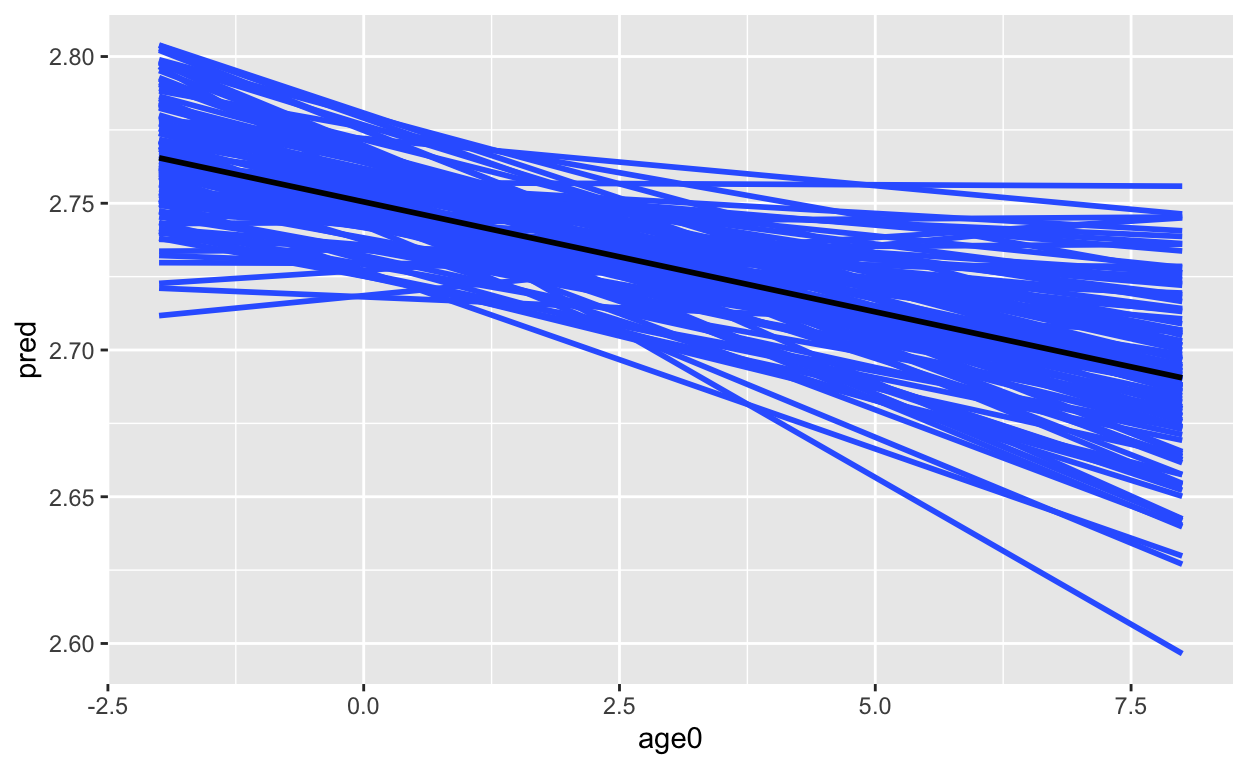
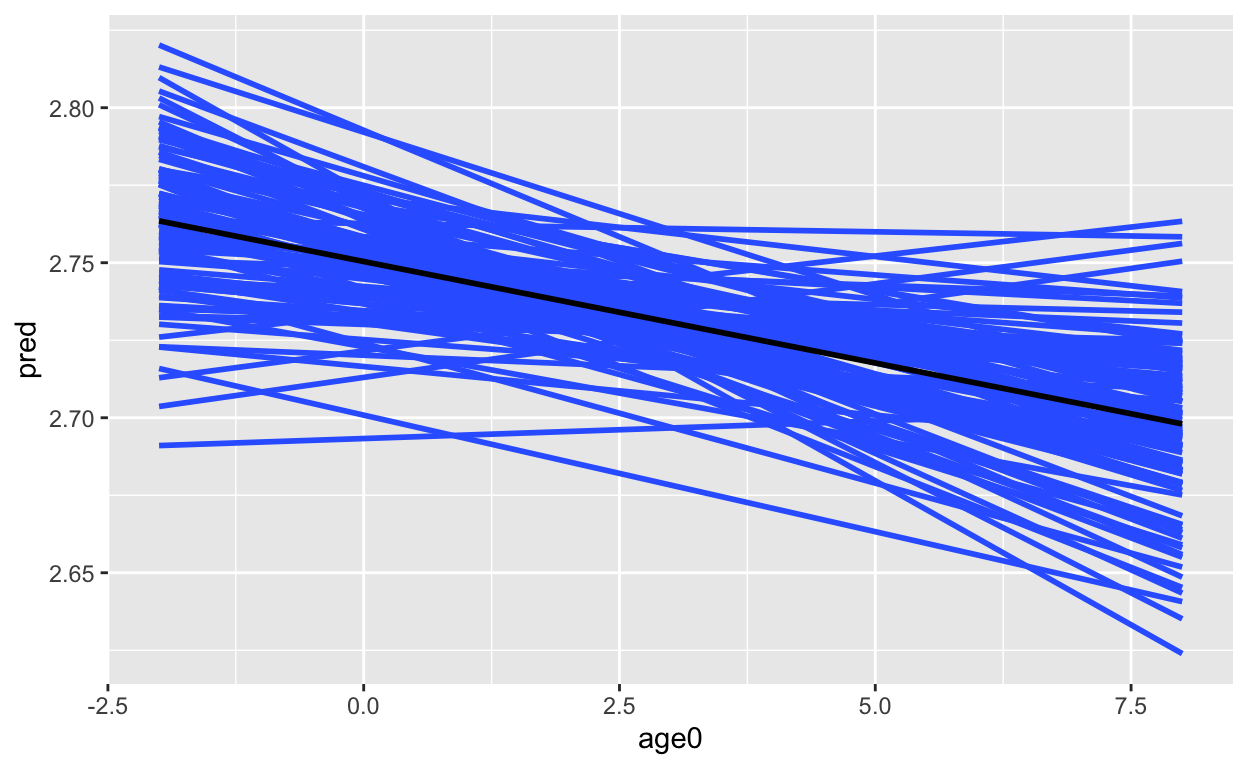
plot updates

diff --git a/_site/plotting.html b/_site/plotting.html
@@ -2832,7 +2832,7 @@ $ .sqrtrwt &lt;dbl&gt; 1, 1, 1, 1, 1, 1, 1, 1, 1, 1, 1, 1, 1, 1, 1, 1, 1,…
 $ .weights &lt;dbl&gt; 1, 1, 1, 1, 1, 1, 1, 1, 1, 1, 1, 1, 1, 1, 1, 1, 1,…
 $ .wtres   &lt;dbl&gt; 0.563262656, -0.085688486, 0.334807697, 0.06371764…</code></pre>
 </div>
-Note how the default of ggpredict doesn’t give fitted values for each person. Instead it provides “marginal effects” which is typically what we want when we want to plot.
+<p>Note how the default of ggpredict doesn’t give fitted values for each person. Instead it provides “marginal effects” which is typically what we want when we want to plot.</p>
 <div class="layout-chunk" data-layout="l-body">
 <div class="sourceCode">
 <pre class="sourceCode r"><code class="sourceCode r"><span class='va'>ggpred</span> <span class='op'>&lt;-</span> <span class='fu'><a href='https://strengejacke.github.io/ggeffects/reference/ggpredict.html'>ggpredict</a></span><span class='op'>(</span><span class='va'>sens.1</span>, terms <span class='op'>=</span> <span class='st'>"age0"</span><span class='op'>)</span>
@@ -3161,7 +3161,7 @@ Adjusted for:
 Adjusted for:
 * PROC_CID = 0 (population-level)</code></pre>
 </div>
-And we can also do fancy this up by taking the data and using ggplot directly
+<p>And we can also do fancy this up by taking the data and using ggplot directly</p>
 <div class="layout-chunk" data-layout="l-body">
 <div class="sourceCode">
 <pre class="sourceCode r"><code class="sourceCode r"><span class='va'>ggpred.3</span> <span class='op'>%&gt;%</span> 
@@ -3240,16 +3240,16 @@ And we can also do fancy this up by taking the data and using ggplot directly
 # Groups:   .id [100]
    strap .id   models effect group term  estimate std.error statistic
    &lt;lis&gt; &lt;chr&gt; &lt;list&gt; &lt;chr&gt;  &lt;chr&gt; &lt;chr&gt;    &lt;dbl&gt;     &lt;dbl&gt;     &lt;dbl&gt;
- 1 &lt;res… 001   &lt;lmer… fixed  &lt;NA&gt;  (Int…  2.75      0.0211    130.   
- 2 &lt;res… 001   &lt;lmer… fixed  &lt;NA&gt;  age0  -0.00439   0.00507    -0.866
- 3 &lt;res… 001   &lt;lmer… ran_p… PROC… sd__…  0.521    NA          NA    
- 4 &lt;res… 001   &lt;lmer… ran_p… PROC… cor_… -0.336    NA          NA    
- 5 &lt;res… 001   &lt;lmer… ran_p… PROC… sd__…  0.0909   NA          NA    
- 6 &lt;res… 001   &lt;lmer… ran_p… Resi… sd__…  0.254    NA          NA    
- 7 &lt;res… 002   &lt;lmer… fixed  &lt;NA&gt;  (Int…  2.75      0.0206    134.   
- 8 &lt;res… 002   &lt;lmer… fixed  &lt;NA&gt;  age0  -0.00245   0.00487    -0.502
- 9 &lt;res… 002   &lt;lmer… ran_p… PROC… sd__…  0.514    NA          NA    
-10 &lt;res… 002   &lt;lmer… ran_p… PROC… cor_… -0.275    NA          NA    
+ 1 &lt;res… 001   &lt;lmer… fixed  &lt;NA&gt;  (Int…  2.75      0.0210    131.   
+ 2 &lt;res… 001   &lt;lmer… fixed  &lt;NA&gt;  age0  -0.0118    0.00771    -1.53 
+ 3 &lt;res… 001   &lt;lmer… ran_p… PROC… sd__…  0.529    NA          NA    
+ 4 &lt;res… 001   &lt;lmer… ran_p… PROC… cor_… -0.266    NA          NA    
+ 5 &lt;res… 001   &lt;lmer… ran_p… PROC… sd__…  0.172    NA          NA    
+ 6 &lt;res… 001   &lt;lmer… ran_p… Resi… sd__…  0.138    NA          NA    
+ 7 &lt;res… 002   &lt;lmer… fixed  &lt;NA&gt;  (Int…  2.76      0.0202    136.   
+ 8 &lt;res… 002   &lt;lmer… fixed  &lt;NA&gt;  age0  -0.00469   0.00534    -0.878
+ 9 &lt;res… 002   &lt;lmer… ran_p… PROC… sd__…  0.497    NA          NA    
+10 &lt;res… 002   &lt;lmer… ran_p… PROC… cor_… -0.362    NA          NA    
 # … with 590 more rows, and 1 more variable: fits &lt;list&gt;</code></pre>
 </div>
 <div class="layout-chunk" data-layout="l-body">
@@ -3272,16 +3272,16 @@ And we can also do fancy this up by taking the data and using ggplot directly
 # Groups:   .id [100]
    strap .id   models results SensSeek  age0 PROC_CID .fitted   .resid
    &lt;lis&gt; &lt;chr&gt; &lt;list&gt; &lt;list&gt;     &lt;dbl&gt; &lt;dbl&gt;    &lt;dbl&gt;   &lt;dbl&gt;    &lt;dbl&gt;
- 1 &lt;res… 001   &lt;lmer… &lt;tibbl…     4        2   325201    3.85  0.149  
- 2 &lt;res… 001   &lt;lmer… &lt;tibbl…     3        4   644806    2.82  0.180  
- 3 &lt;res… 001   &lt;lmer… &lt;tibbl…     2        4   448304    1.65  0.350  
- 4 &lt;res… 001   &lt;lmer… &lt;tibbl…     2.33     2   851004    2.37 -0.0357 
- 5 &lt;res… 001   &lt;lmer… &lt;tibbl…     3       -2   291103    2.99  0.00831
- 6 &lt;res… 001   &lt;lmer… &lt;tibbl…     2.67     8   288602    2.67 -0.00249
- 7 &lt;res… 001   &lt;lmer… &lt;tibbl…     2.67     6   708101    2.71 -0.0391 
- 8 &lt;res… 001   &lt;lmer… &lt;tibbl…     3        4   746404    2.96  0.0402 
- 9 &lt;res… 001   &lt;lmer… &lt;tibbl…     3        2   224003    2.94  0.0638 
-10 &lt;res… 001   &lt;lmer… &lt;tibbl…     2.67     0   115203    2.68 -0.00847
+ 1 &lt;res… 001   &lt;lmer… &lt;tibbl…     3.67    -2   156604    3.63  0.0387 
+ 2 &lt;res… 001   &lt;lmer… &lt;tibbl…     3.33     8    92802    3.35 -0.0132 
+ 3 &lt;res… 001   &lt;lmer… &lt;tibbl…     3        0     9503    3.00  0.00257
+ 4 &lt;res… 001   &lt;lmer… &lt;tibbl…     2.67     6   629102    2.62  0.0443 
+ 5 &lt;res… 001   &lt;lmer… &lt;tibbl…     2.67     0   718403    2.68 -0.0142 
+ 6 &lt;res… 001   &lt;lmer… &lt;tibbl…     2       -2   629703    2.01 -0.0146 
+ 7 &lt;res… 001   &lt;lmer… &lt;tibbl…     3       -2   512504    2.99  0.00821
+ 8 &lt;res… 001   &lt;lmer… &lt;tibbl…     2.67     2  1204201    2.66  0.00349
+ 9 &lt;res… 001   &lt;lmer… &lt;tibbl…     3        0   964804    2.99  0.0116 
+10 &lt;res… 001   &lt;lmer… &lt;tibbl…     3        0   598001    2.89  0.109  
 # … with 208,390 more rows, and 9 more variables: .hat &lt;dbl&gt;,
 #   .cooksd &lt;dbl&gt;, .fixed &lt;dbl&gt;, .mu &lt;dbl&gt;, .offset &lt;dbl&gt;,
 #   .sqrtXwt &lt;dbl&gt;, .sqrtrwt &lt;dbl&gt;, .weights &lt;dbl&gt;, .wtres &lt;dbl&gt;</code></pre>
@@ -3301,16 +3301,16 @@ And we can also do fancy this up by taking the data and using ggplot directly
 # Groups:   age0 [6]
     age0 .id    pred
    &lt;dbl&gt; &lt;chr&gt; &lt;dbl&gt;
- 1    -2 001    2.83
- 2    -2 002    2.72
- 3    -2 003    2.77
- 4    -2 004    2.77
- 5    -2 005    2.77
- 6    -2 006    2.77
- 7    -2 007    2.81
- 8    -2 008    2.75
- 9    -2 009    2.78
-10    -2 010    2.73
+ 1    -2 001    2.78
+ 2    -2 002    2.75
+ 3    -2 003    2.70
+ 4    -2 004    2.83
+ 5    -2 005    2.78
+ 6    -2 006    2.80
+ 7    -2 007    2.79
+ 8    -2 008    2.77
+ 9    -2 009    2.72
+10    -2 010    2.75
 # … with 590 more rows</code></pre>
 </div>
 <div class="layout-chunk" data-layout="l-body">
@@ -3343,10 +3343,10 @@ And we can also do fancy this up by taking the data and using ggplot directly
    age0  pred
 * &lt;dbl&gt; &lt;dbl&gt;
 1    -2  2.77
-2     0  2.73
+2     0  2.74
 3     2  2.75
-4     4  2.73
-5     6  2.67
+4     4  2.74
+5     6  2.68
 6     8  2.71</code></pre>
 </div>
 <div class="layout-chunk" data-layout="l-body">
